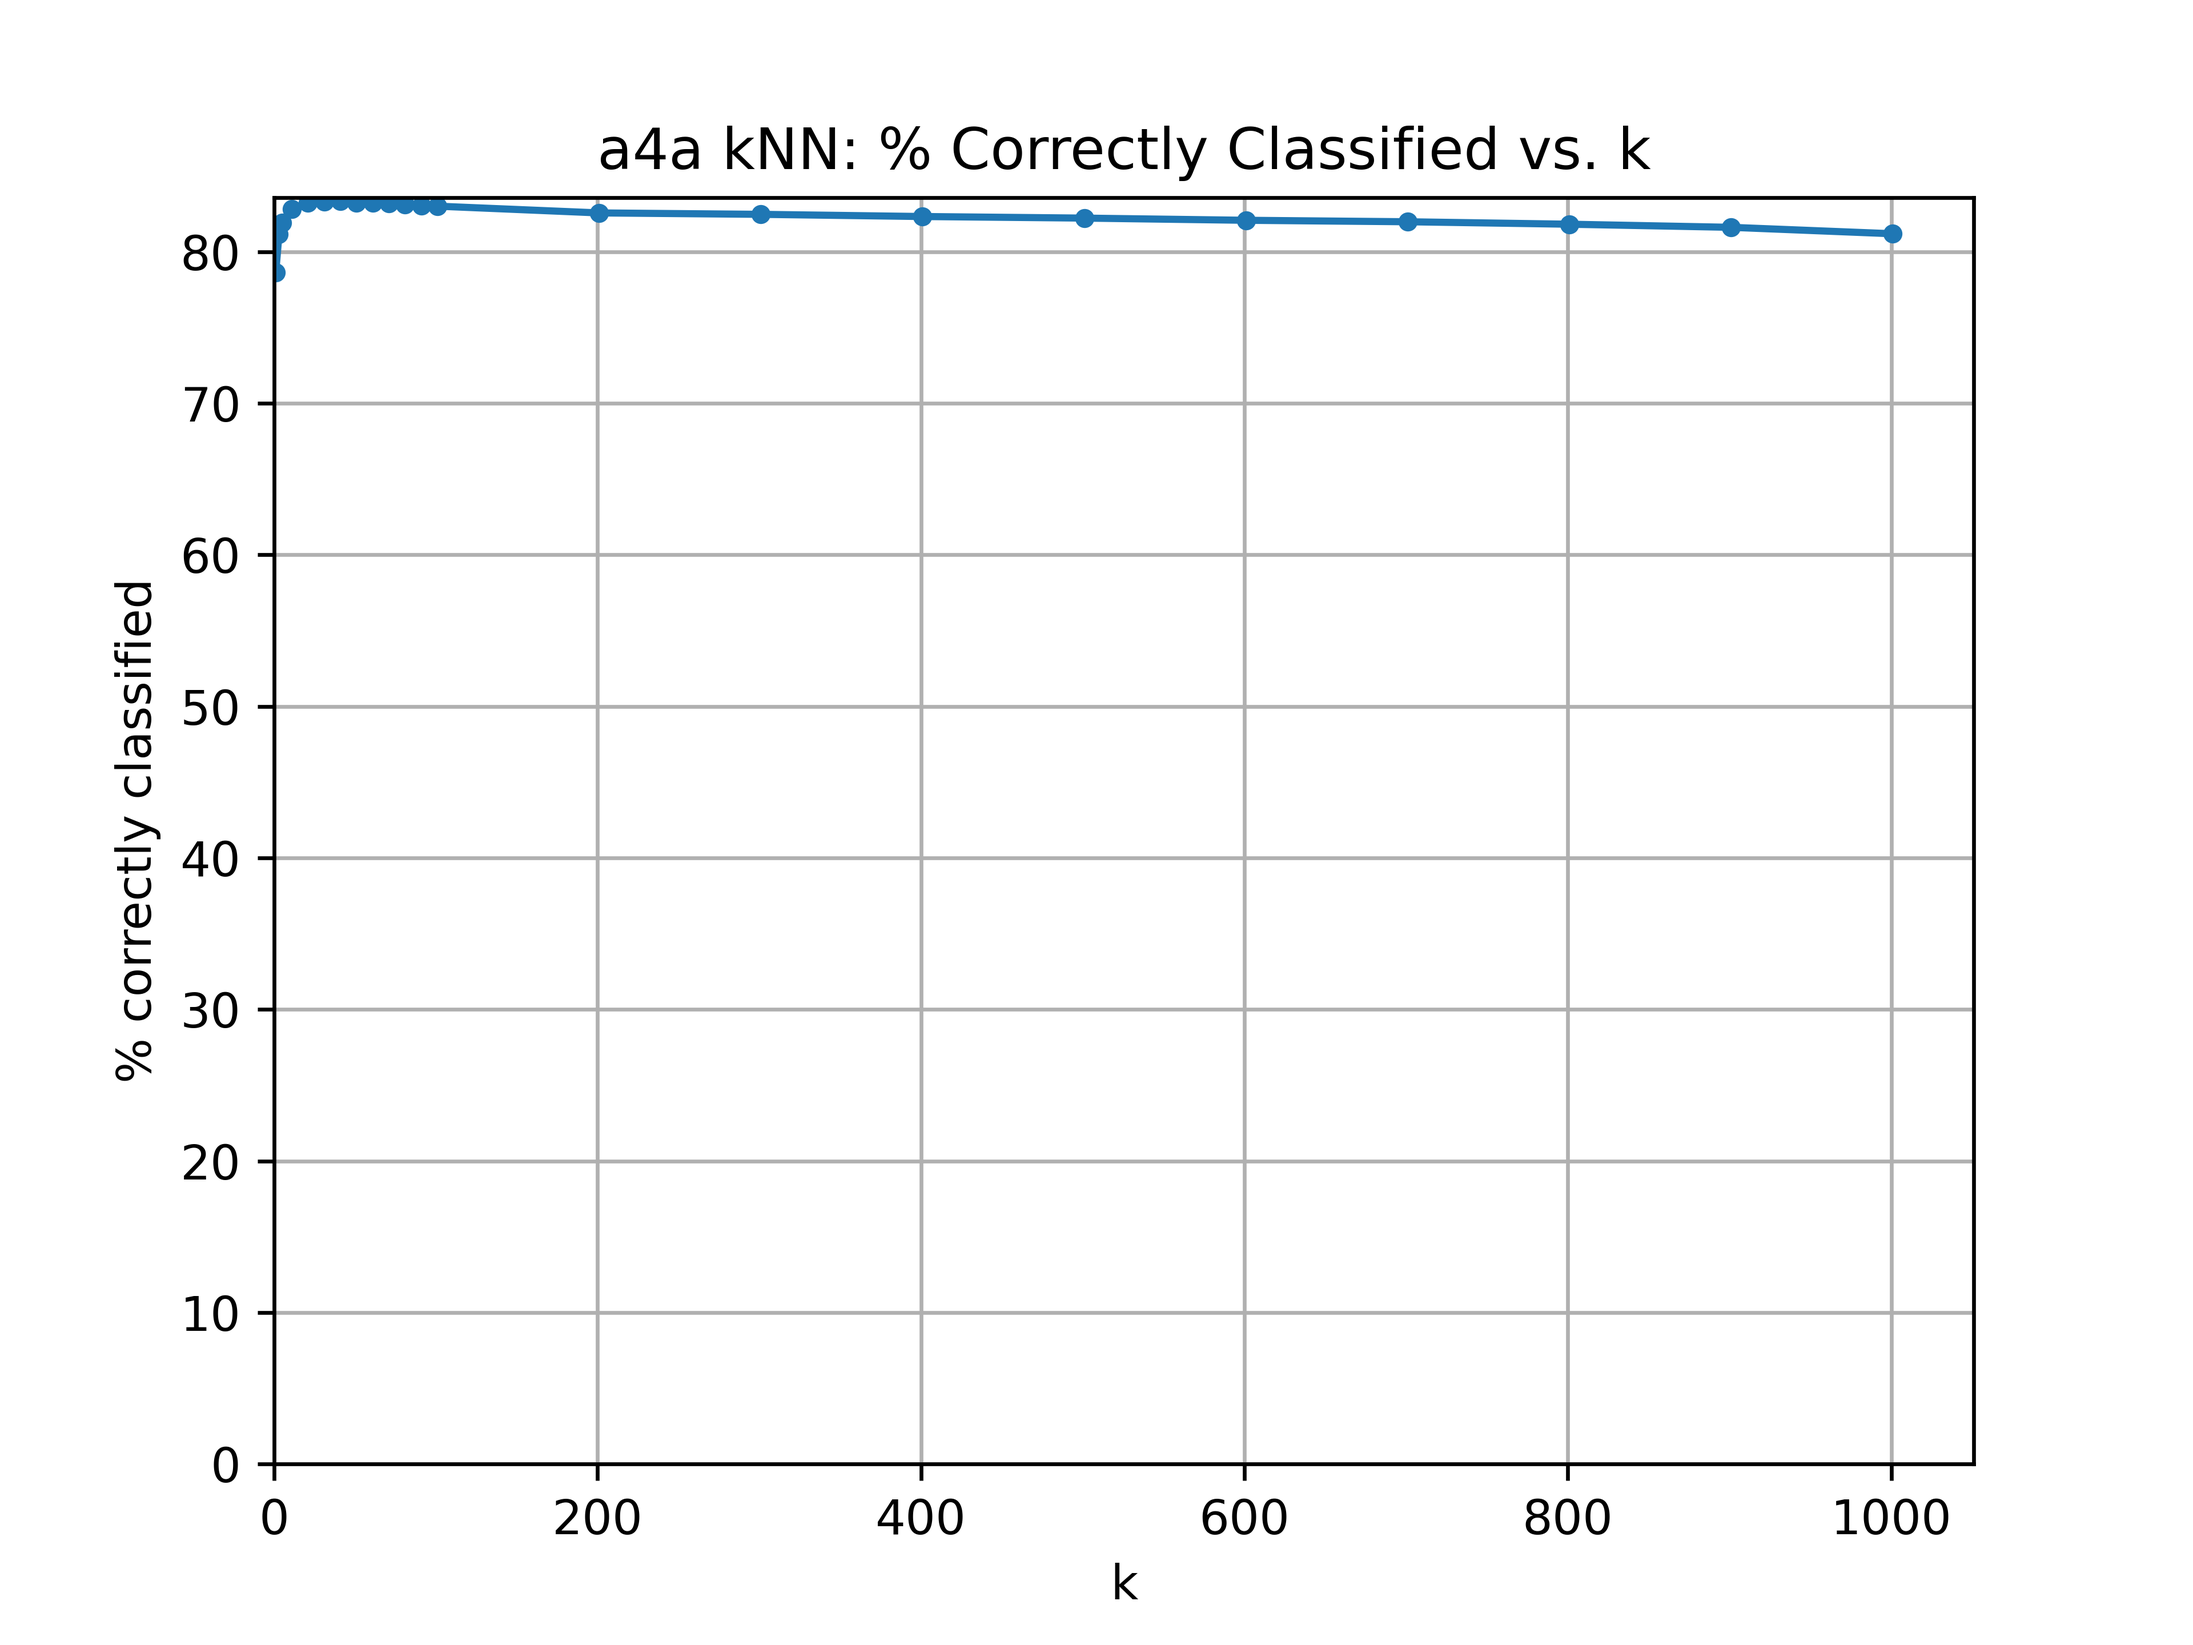
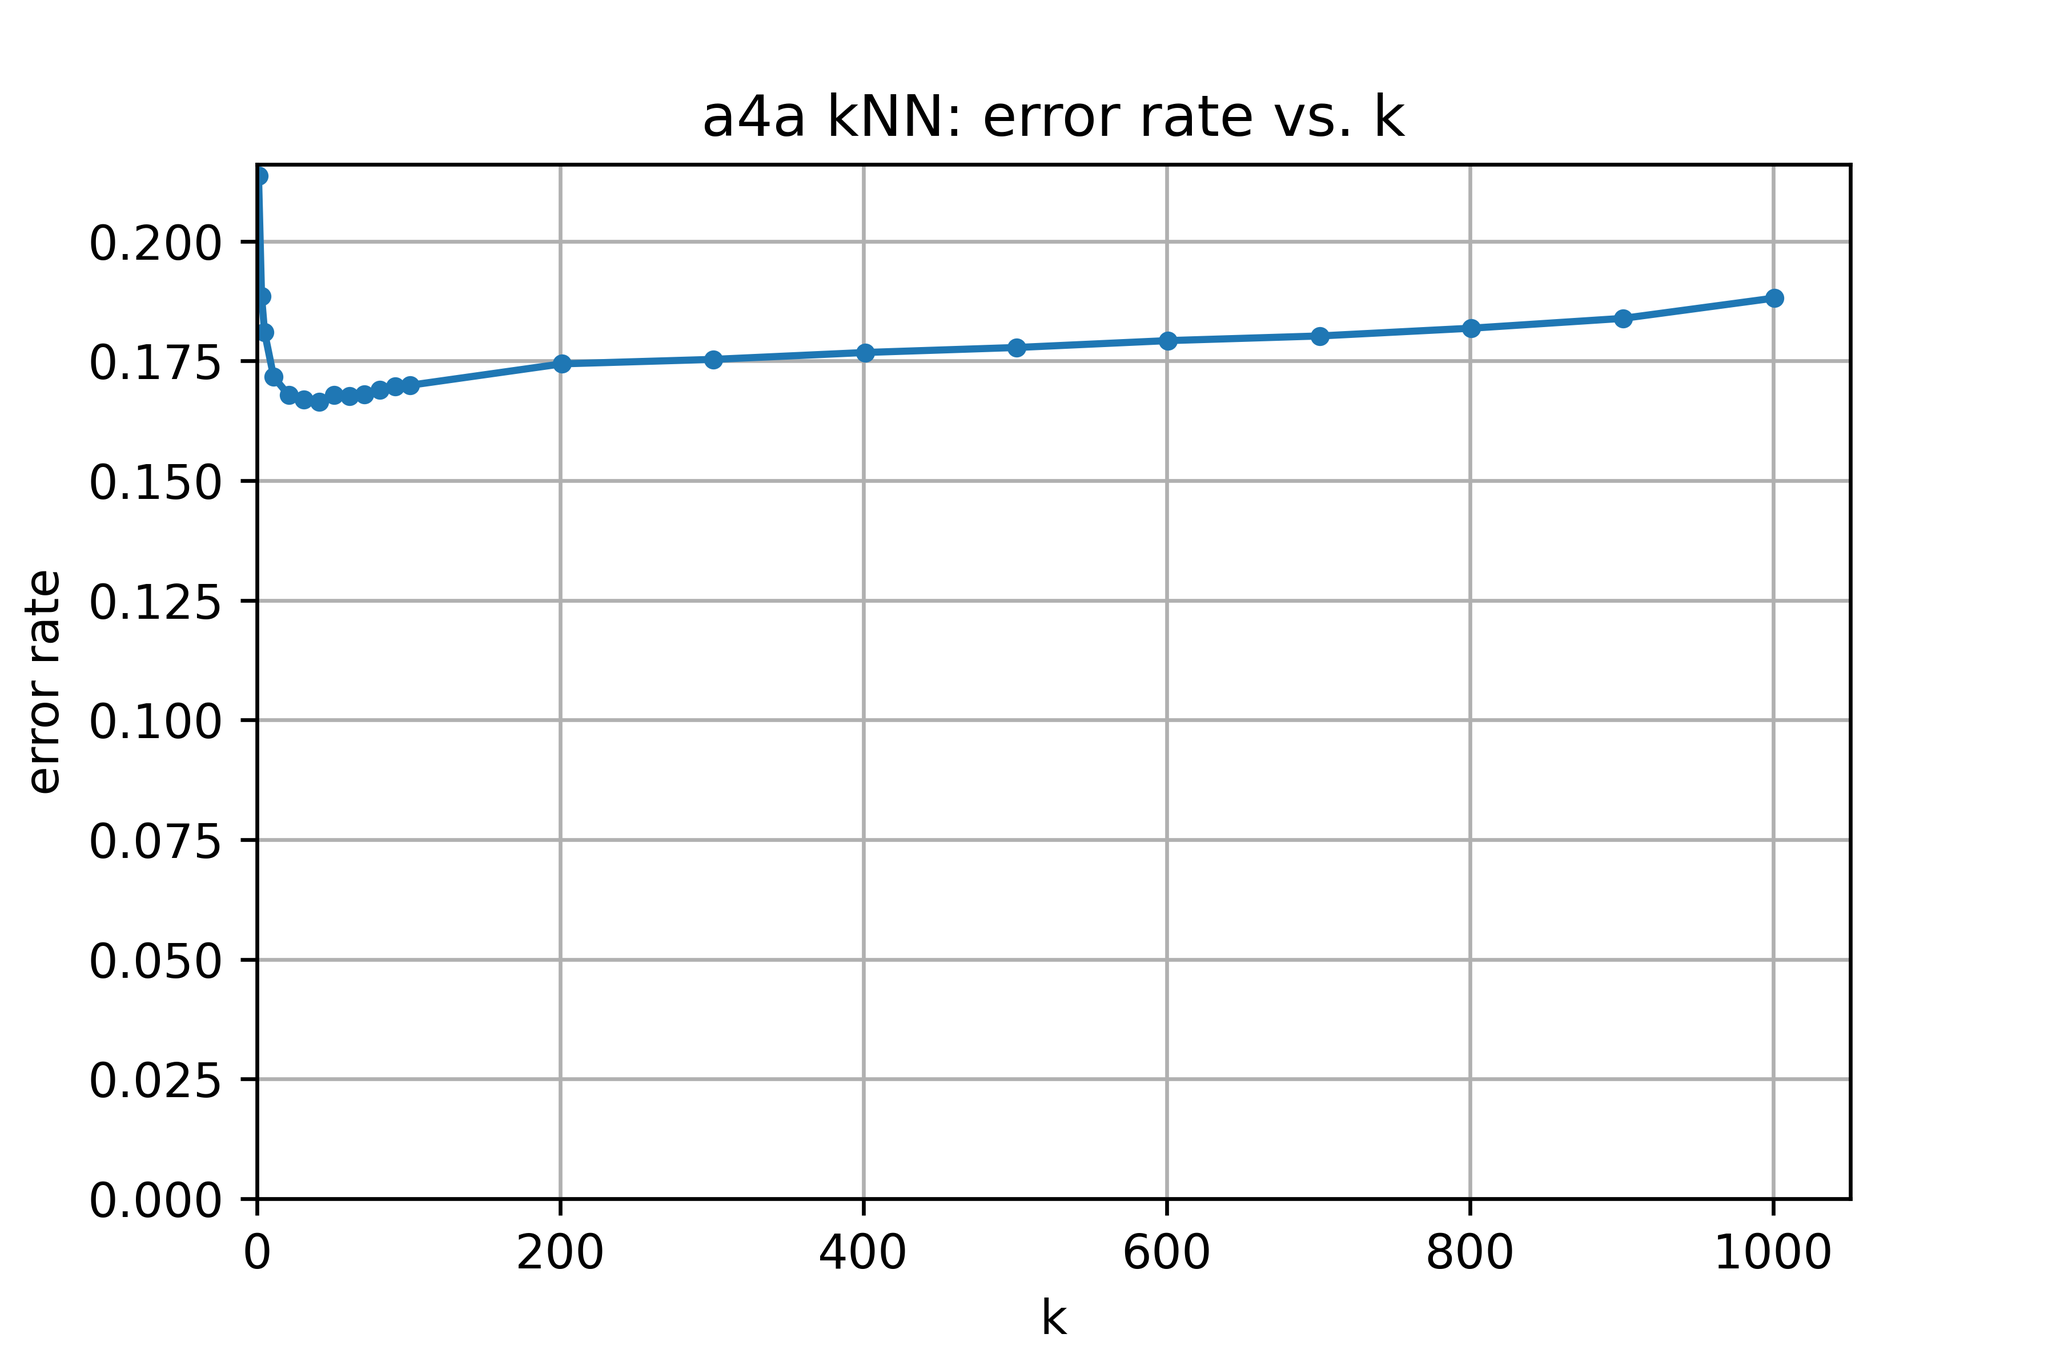
Almost done

diff --git a/MiniProj1.py b/MiniProj1.py
@@ -108,21 +108,21 @@ def k_nearest_neighbors(data, test_samples, num_neighbors):
 def check_knn_classifications(y, y_hat):
     """
     Given actual values y and classiciations y_hat,
-    return the number of num_misclass
+    return the number of errors
     """
-    num_misclass = 0
+    errors = 0
     for i in range(len(y)):
         if (y[i] != y_hat[i]):
-            num_misclass += 1
+            errors += 1
 
-    return num_misclass
+    return errors
 
 
 def train_perceptron(data, beta, step_limit):
     """
     Perceptron. Given a set of data (samples are rows, columns
     features, and samples have classifications in position 0),
-    a learning rate (beta), and a step limit, train and return a
+    a step size (beta), and a step limit, train and return a
     weight vector that can be used to classify the given data.
     """
 
@@ -170,7 +170,7 @@ def multiclass_train_perceptron(data, beta, step_limit):
     """
     Perceptron. Given a set of data (samples are rows, columns
     features, and samples have classifications in position 0),
-    a learning rate (beta), and a step limit, train and return a
+    a step size (beta), and a step limit, train and return a
     weight vector that can be used to classify the given data.
 
     This version works on data with multiple classes by one-vs-rest.
@@ -185,7 +185,7 @@ def multiclass_train_perceptron(data, beta, step_limit):
     # rest of the untrained classes.
     ws = []
     curr_data = copy.deepcopy(data)
-    for curr_class in range(len(classes) - 1):
+    for curr_class in range(len(classes)):
 
         # Save original classification data
         orig_classes = copy.deepcopy(curr_data[:,0])
@@ -204,10 +204,6 @@ def multiclass_train_perceptron(data, beta, step_limit):
         for i in range(curr_data.shape[0]):
             curr_data[i][0] = orig_classes[i]
 
-        # Set up for the next class
-        curr_data = copy.deepcopy(curr_data[np.where(curr_data[:,0] \
-                                                      != classes[curr_class])])
-
     return ws
 
 
@@ -217,7 +213,7 @@ def test_perceptron(data, w):
     num_misclass when classifying the test data using the
     weights.
     """
-    num_misclass = 0
+    errors = 0
 
     # Initialize y_hat
     y_hat = np.zeros(len(data))
@@ -232,9 +228,9 @@ def test_perceptron(data, w):
         biased_sample[0] = 1
         y_hat[i] = 1 if (np.matmul(w.T, biased_sample) > 0) else -1
         if (y[i] != y_hat[i]):
-            num_misclass += 1
+            errors += 1
 
-    return num_misclass
+    return errors
 
 
 def multiclass_test_perceptron(data, ws):
@@ -243,7 +239,7 @@ def multiclass_test_perceptron(data, ws):
     num_misclass when classifying the test data using the
     weights.
 
-    This version works on data with multiple classes by one-vs-rest.
+    This version works on data with multiple classes by One vs. All (OVA).
     """
     # Find unique classes
     classes = []
@@ -253,9 +249,9 @@ def multiclass_test_perceptron(data, ws):
 
     # For each classification, test perceptron on current class vs.
     # rest of the untested classes.
-    num_misclass = []
+    errors = []
     curr_data = copy.deepcopy(data)
-    for curr_class in range(len(classes) - 1):
+    for curr_class in range(len(classes)):
 
         # Save original classification data
         orig_classes = copy.deepcopy(curr_data[:,0])
@@ -268,17 +264,13 @@ def multiclass_test_perceptron(data, ws):
                 curr_data[i][0] = -1
 
         # Train and find weights
-        num_misclass.append(test_perceptron(curr_data, ws[curr_class]))
+        errors.append(test_perceptron(curr_data, ws[curr_class]))
 
         # Put original classifications back
         for i in range(curr_data.shape[0]):
             curr_data[i][0] = orig_classes[i]
 
-        # Set up for the next class
-        curr_data = copy.deepcopy(curr_data[np.where(curr_data[:,0] \
-                                                      != classes[curr_class])])
-
-    return num_misclass
+    return errors
 
 
 def iris_knn():
@@ -288,22 +280,22 @@ def iris_knn():
     print("----------\niris kNN")
 
     # Load data
-    iris_data = libsvm_scale_import('data/iris.scale')
+    data = libsvm_scale_import('data/iris.scale')
 
-    # Shuffle the data because otherwise we can't effectively split it
-    # into training & test
-    shuffle_data = copy.deepcopy(iris_data)
+    # Shuffle the data because we want to split it into train & test,
+    # and it is pre-sorted (we would test against classes we didn't
+    # see in training)
     np.random.seed(1) # ensure consistent shuffling
-    np.random.shuffle(shuffle_data)
+    np.random.shuffle(data)
 
     # Split up data into training and test data based on split value
     split = 50
-    train_data = shuffle_data[:split]
-    test_data = shuffle_data[split:]
+    train_data = data[:split]
+    test_data = data[split:]
 
     # Test multiple values of k
-    test_ks = np.array([1, 3, 5, 11, 21, 31, 41, 49])
-    results = np.zeros(len(test_ks))
+    test_ks = np.arange(1, split)
+    error_rates = np.zeros(test_ks.shape[0])
     for i in range(len(test_ks)):
         # Classify the test data
         print('Classify with k =', test_ks[i])
@@ -311,14 +303,16 @@ def iris_knn():
                                               test_ks[i])
         # Check accuracy
         errors = check_knn_classifications(test_data[:,0], classifications)
-        results[i] = (1.0 - (errors / test_data.shape[0])) * 100.0
+        error_rates[i] = errors / test_data.shape[0]
         print(errors, 'errors in', test_data.shape[0], 'samples')
 
+    print('ks:', test_ks)
+    print('error rates:', error_rates)
     plt.clf()
-    plt.plot(test_ks, results, marker='.')
-    plt.title('Iris kNN: % Correctly Classified vs. k')
+    plt.plot(test_ks, error_rates, marker='.')
+    plt.title('Iris kNN: error rate vs. k')
     plt.xlabel('k')
-    plt.ylabel('% correctly classified')
+    plt.ylabel('error rate')
     plt.xlim(left = 0)
     plt.ylim(bottom = 0)
     plt.grid(True)
@@ -334,13 +328,44 @@ def iris_perceptron():
     # Load data
     data = libsvm_scale_import('data/iris.scale')
 
-    ws = multiclass_train_perceptron(data, 0.01, 99999)
+    # Shuffle the data because we want to split it into train & test,
+    # and it is pre-sorted (we would test against classes we didn't
+    # see in training)
+    np.random.seed(1) # ensure consistent shuffling
+    np.random.shuffle(data)
 
-    num_misclass = multiclass_test_perceptron(data, ws)
-    # samples, errors, w1, w2 = iris_perceptron(0.01, 9999)
-    # print(samples, errors, w1, w2)
+    # Split up data into training and test data based on split value
+    split = 50
+    train_data = data[:split]
+    test_data = data[split:]
 
-    print(num_misclass, 'errors in', data.shape[0], 'samples')
+    # Perform multi-class training and test and collect
+    # a weight vector and number of errors for each class
+    ws = multiclass_train_perceptron(train_data, 0.1, 100000)
+    errors = multiclass_test_perceptron(test_data, ws)
+
+    # Report errors
+    print(errors, 'errors in', test_data.shape[0], 'samples')
+
+    # Show sorted weights for every class
+    for i in range(len(ws)):
+
+        # Sort weights to find most important
+        w = list(ws[i][1:])
+        feature_ids = range(1, len(w) + 1)
+        print('W:', w)
+        labels = []
+        for id in feature_ids:
+            labels.append(str(int(id)))
+
+        # Report top weights
+        plt.clf()
+        plt.bar(labels, w)
+        plt.title('iris Perceptron: feature weights for class = ' + str(i+1))
+        plt.xlabel('feature ID')
+        plt.ylabel('weight')
+        plt.grid(True)
+        plt.savefig('iris_weights' + str(i+1) + '.png', dpi = 600)
 
 
 def a4a_knn():
@@ -353,17 +378,15 @@ def a4a_knn():
     train_data = libsvm_scale_import('data/a4a')
     test_data = libsvm_scale_import('data/a4a.t')
 
-    # Subsample test data because it's huge
-    # test_data = test_data[::10000]
-
     # Training data has 1 fewer feature than test data, so add a column
     # of zeros to it so samples have same number of features in train and test
     zero_col = np.zeros((len(train_data), 1))
     train_data = np.hstack((train_data, zero_col))
 
     # Test multiple values of k
+    # This takes over 3 hours to run on my fastest computer.
     test_ks = np.array([1, 3, 5, 11, 21, 31, 41, 51, 61, 71, 81, 91, 101, 201, 301, 401, 501, 601, 701, 801, 901, 1001])
-    results = np.zeros(len(test_ks))
+    error_rates = np.zeros(len(test_ks))
     for i in range(len(test_ks)):
         print('Classify with k =', test_ks[i])
         # Classify the test data
@@ -371,14 +394,20 @@ def a4a_knn():
                                               test_ks[i])
         # Check accuracy
         errors = check_knn_classifications(test_data[:,0], classifications)
-        results[i] = (1.0 - (errors / test_data.shape[0])) * 100.0
+        error_rates[i] = errors / test_data.shape[0]
         print(errors, 'errors in', test_data.shape[0], 'samples')
 
+    # # Here is the data pre-computed.
+    # errors = np.array([5937,5238,5028,4769,4663,4639,4626,4664,4656,4668,4695,4714,4721,4845,4871,4911,4940,4980,5007,5052,5109,5227])
+    # error_rates = errors / test_data.shape[0]
+
+    print('ks:', test_ks)
+    print('error rates:', error_rates)
     plt.clf()
-    plt.plot(test_ks, results, marker='.')
-    plt.title('a4a kNN: % Correctly Classified vs. k')
+    plt.plot(test_ks, error_rates, marker='.')
+    plt.title('a4a kNN: error rate vs. k')
     plt.xlabel('k')
-    plt.ylabel('% correctly classified')
+    plt.ylabel('error rate')
     plt.xlim(left = 0)
     plt.ylim(bottom = 0)
     plt.grid(True)
@@ -400,13 +429,57 @@ def a4a_perceptron():
     zero_col = np.zeros((len(train_data), 1))
     train_data = np.hstack((train_data, zero_col))
 
-    # Train and find weights
-    w = train_perceptron(train_data, 0.01, 9999)
+    # Test multiple values of beta
+    test_betas = np.array([0.0001, 0.001, 0.01, 0.1, 1.0, 10.0, 100.0])
+    error_rates = np.zeros(test_betas.shape[0])
+    ws = []
+    best_beta = -1
+    best_error_rate = 999999
+    for i in range(len(test_betas)):
+        print('Classify with beta =', test_betas[i])
 
-    # Check accuracy
-    num_misclass = test_perceptron(test_data, w)
+        # Train and find weights
+        ws.append(train_perceptron(train_data, test_betas[i], 100000))
 
-    print(num_misclass, 'errors in', test_data.shape[0], 'samples')
+        # Check accuracy
+        errors = test_perceptron(test_data, ws[i])
+        error_rates[i] = errors / test_data.shape[0]
+        if (error_rates[i] < best_error_rate):
+            best_error_rate = error_rates[i]
+            best_beta = i
+        print(errors, 'errors in', test_data.shape[0], 'samples')
+
+    # Report error rates
+    print('betas:', test_betas)
+    print('error rates:', error_rates)
+    plt.clf()
+    plt.plot(test_betas, error_rates, marker='.')
+    plt.title('a4a Perceptron: error rate vs. step size for 100000 iterations')
+    plt.xscale('log')
+    plt.xlabel('step size')
+    plt.ylabel('error rate')
+    plt.ylim(bottom = 0)
+    plt.grid(True)
+    plt.savefig('a4a_perceptron.png', dpi = 600)
+
+    # Sort weights to find most important
+    w = list(ws[best_beta][1:])
+    feature_ids = range(1, len(w) + 1)
+    bar_data = list(zip(feature_ids, w))
+    bar_data.sort(key = lambda _: abs(_[1]), reverse = True)
+    bar_data = np.array(bar_data[:20])
+    labels = []
+    for id in bar_data[:,0]:
+        labels.append(str(int(id)))
+
+    # Report top weights
+    plt.clf()
+    plt.bar(labels, bar_data[:,1])
+    plt.title('a4a Perceptron: 20 most important features')
+    plt.xlabel('feature ID')
+    plt.ylabel('weight')
+    plt.grid(True)
+    plt.savefig('a4a_weights.png', dpi = 600)
 
 
 def main():
